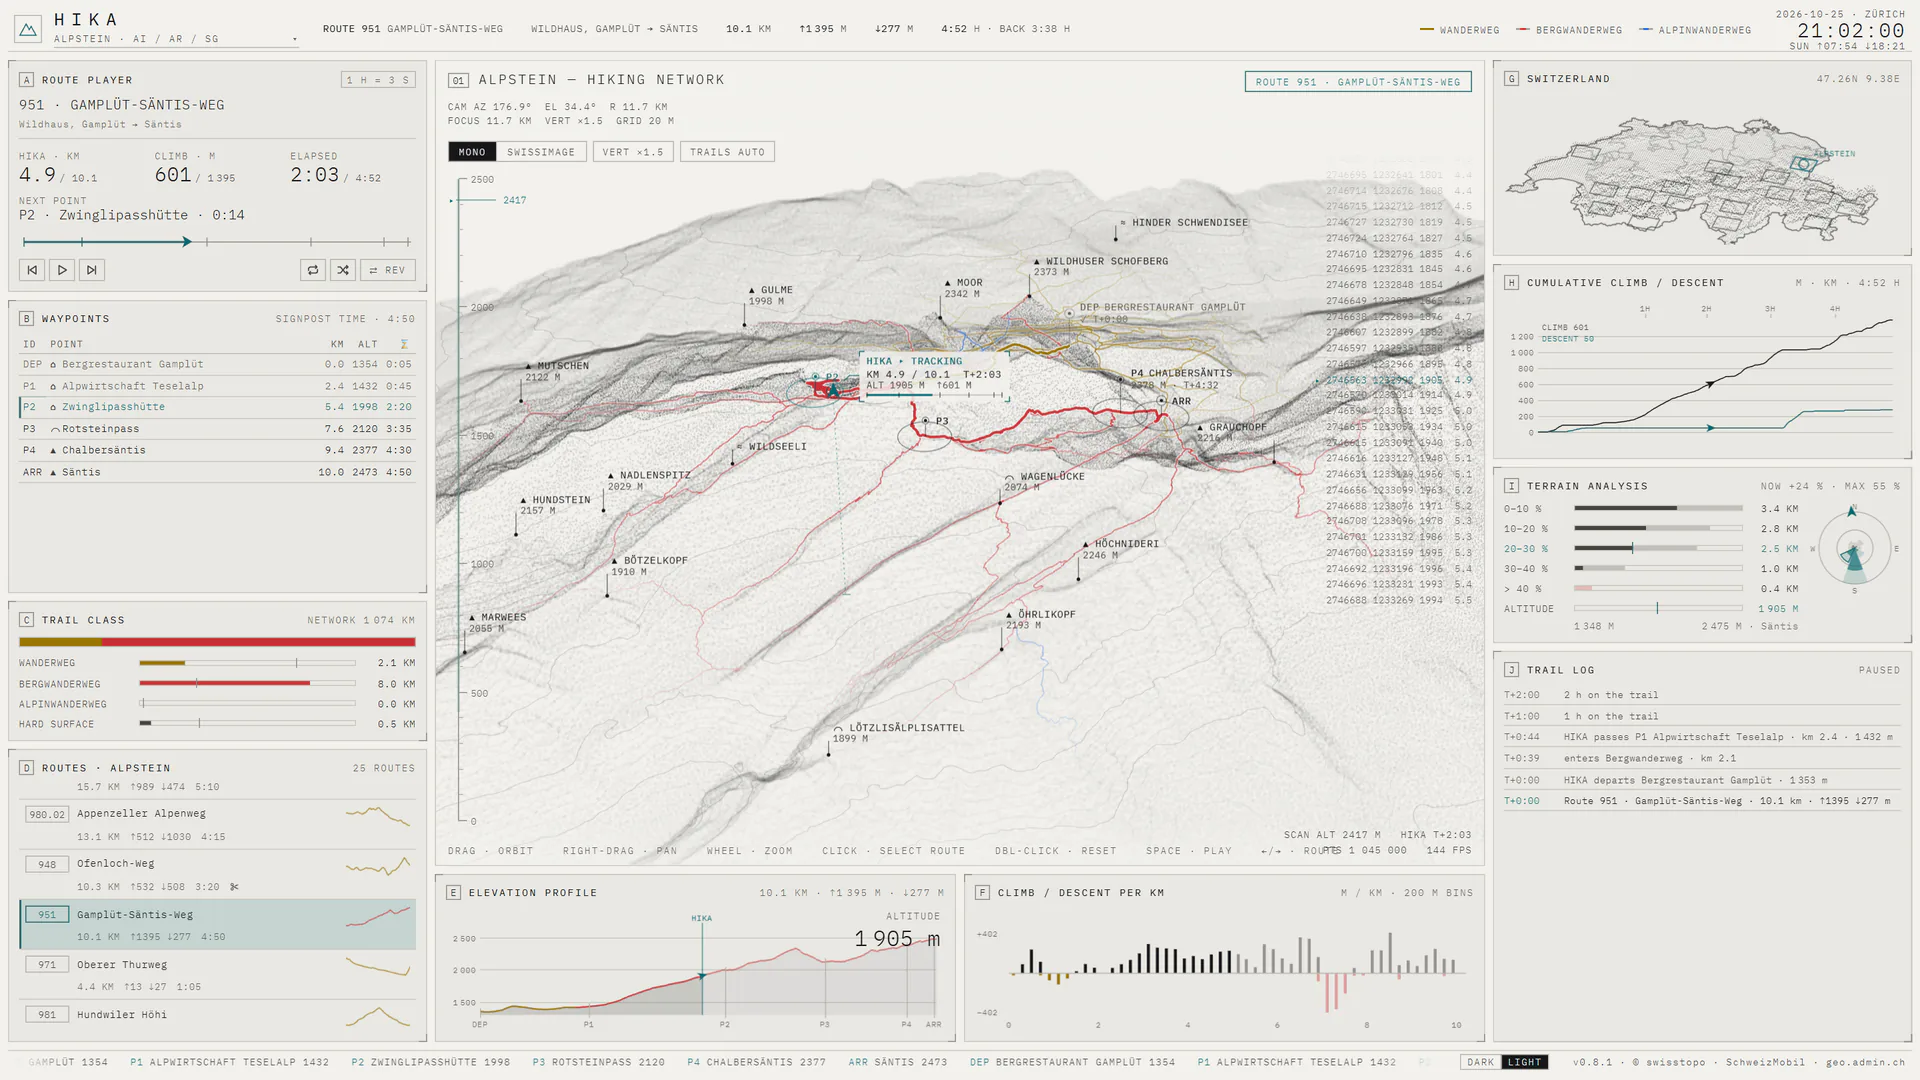
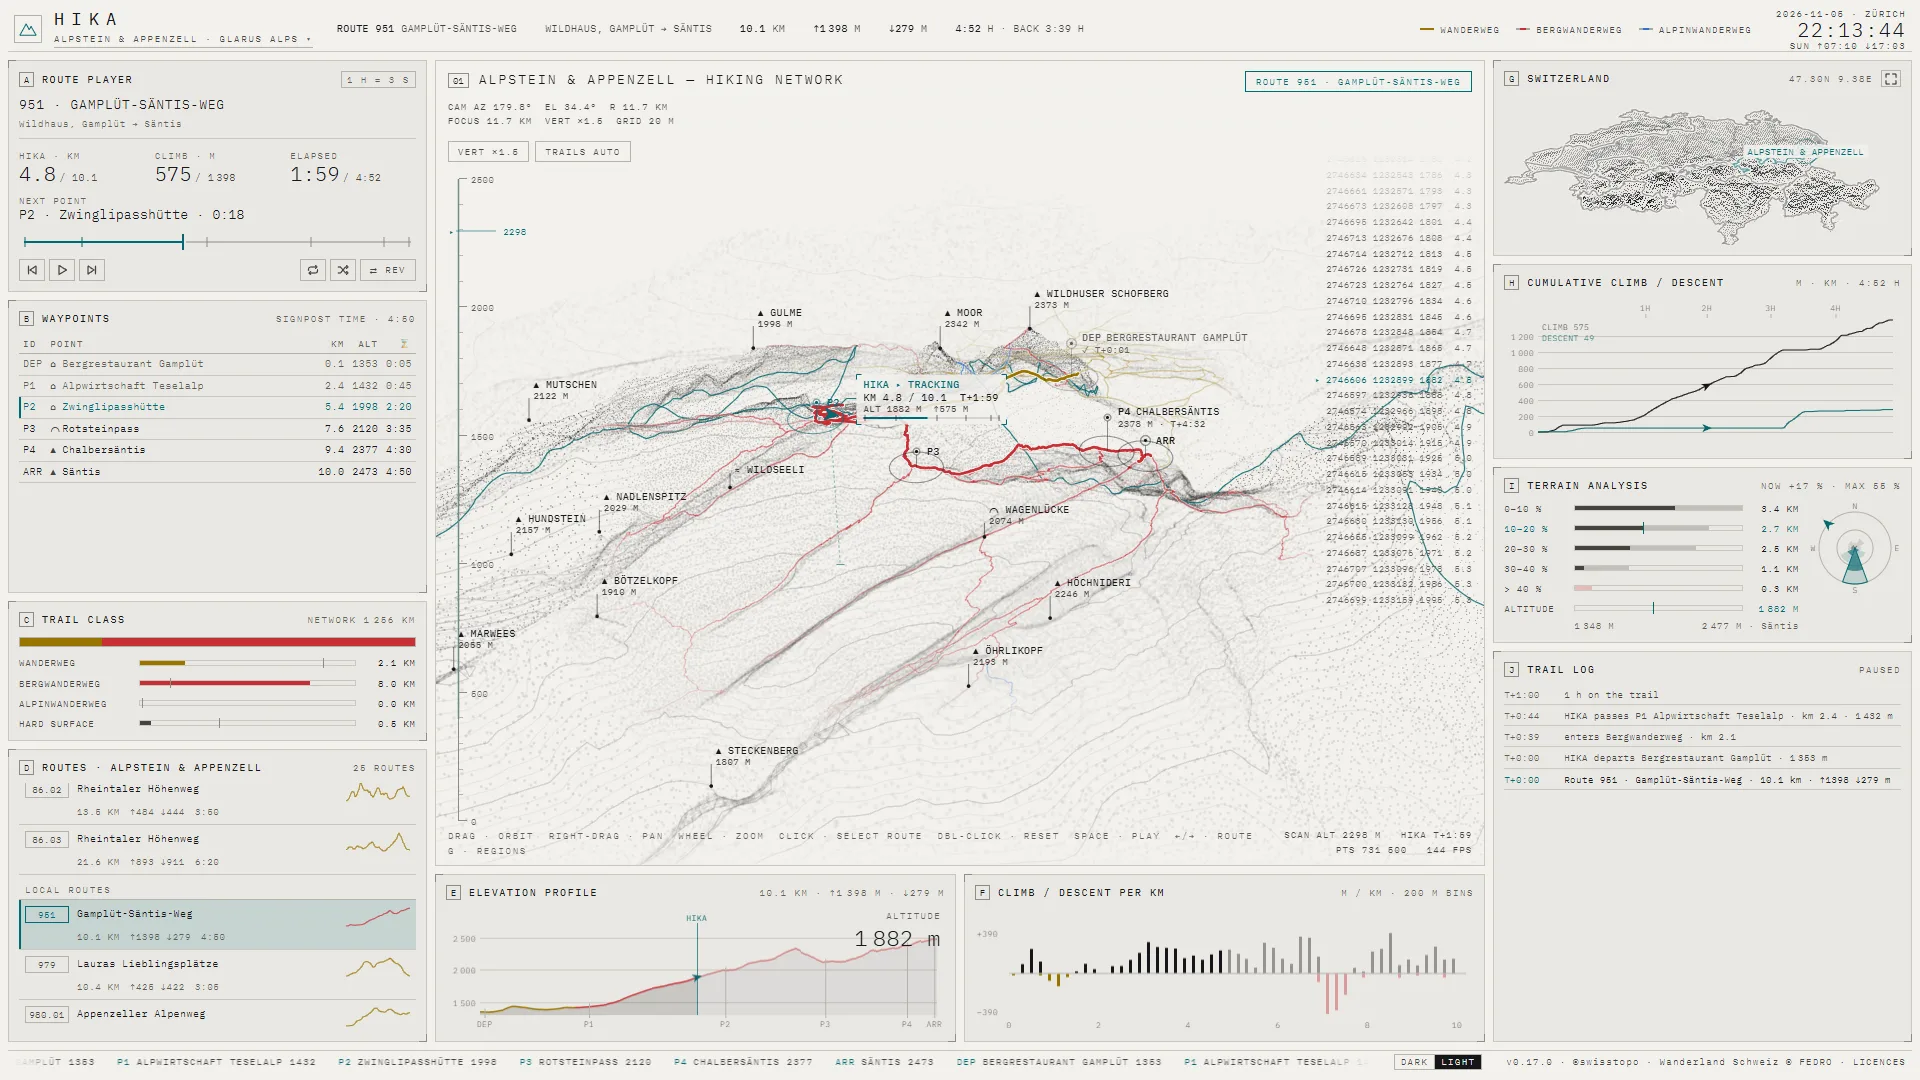
Clean up the repo and refresh the README
The README screenshots still showed v0.8.1, with a SWISSIMAGE button
removed in 0.13 and the rectangular regions of format 3. No change to
what the app does.

- Retake the hero and light screenshots from a v0.17.0 build, and add
  the region browser and a phone view.
- Restructure the README: the 54 area links become a collapsible table
  by range, the controls get mouse and touch columns, and there is a
  command table and a short "How it works".
- Remove the unused clipRoute, drop export from values only used in
  their own module, and rename RequestInit2 to FetchOptions.
- Fix stale names in comments and docs/data-coverage.md: "format 3",
  terrain.bin, trails.bin, trails.km.
- Add .editorconfig. In .gitattributes, mark .webp as binary in place of
  file types the repo no longer holds, and mark package-lock.json as
  generated.

diff --git a/src/data/codec.ts b/src/data/codec.ts
@@ -1,6 +1,6 @@
 /**
- * Byte layouts of the atlas files (format 3): terrain and trail tiles and route files. Shared by
- * the pipeline (encode) and the app (decode) so the two cannot drift apart.
+ * Byte layouts of the atlas files: terrain and trail tiles and route files. Shared by the pipeline
+ * (encode) and the app (decode) so the two cannot drift apart.
  *
  * All of them store 16-bit values as residuals from a predictor, modulo 2^16, with all low bytes before
  * all high bytes. The residuals are small and the high-byte plane is nearly constant, so git's
@@ -30,7 +30,7 @@ function predict(h: Uint16Array, i: number, cols: number): number {
   return h[i - 1] + h[i - cols] - h[i - cols - 1];
 }
 
-/** terrain.bin from a row-major Uint16 grid. */
+/** A terrain tile (`terrain/<key>.bin`) from a row-major Uint16 grid. */
 export function encodeGrid(h: Uint16Array, cols: number): Uint8Array {
   const r = new Uint16Array(h.length);
   for (let i = 0; i < h.length; i++) r[i] = (h[i] - predict(h, i, cols)) & 0xffff;
@@ -45,9 +45,9 @@ export function decodeGrid(bytes: Uint8Array, cols: number, rows: number): Uint1
 }
 
 /**
- * trails.bin: 'HKT2', line and vertex counts (Uint32), vertex offsets per line (Uint32), class and
- * surface bytes padded to 4, then the (e, n) pairs as deltas from the line's previous vertex (the
- * first vertex as is), in byte planes.
+ * A trail tile (`trails/<key>.bin`): 'HKT2', line and vertex counts (Uint32), vertex offsets per
+ * line (Uint32), class and surface bytes padded to 4, then the (e, n) pairs as deltas from the
+ * line's previous vertex (the first vertex as is), in byte planes.
  */
 export function encodeTrails({ offsets, cls, hard, xy }: Trails): Uint8Array {
   const nLines = cls.length, nVerts = xy.length / 2, meta = Math.ceil((nLines * 2) / 4) * 4;

diff --git a/scripts/lib/http.ts b/scripts/lib/http.ts
@@ -28,10 +28,10 @@ export async function withSlot<T>(fn: () => Promise<T>): Promise<T> {
   }
 }
 
-export interface RequestInit2 { method?: string; body?: string; headers?: Record<string, string> }
+interface FetchOptions { method?: string; body?: string; headers?: Record<string, string> }
 
 /** Fetches `url` through an on-disk cache keyed by URL and body, retrying transient failures. */
-export async function fetchCached(url: string, init: RequestInit2 = {}): Promise<Buffer> {
+export async function fetchCached(url: string, init: FetchOptions = {}): Promise<Buffer> {
   const key = createHash('sha1').update(url).update(init.body ?? '').digest('hex');
   const file = join(CACHE_DIR, key.slice(0, 2), key);
   if (existsSync(file)) return readFileSync(file);
@@ -41,7 +41,7 @@ export async function fetchCached(url: string, init: RequestInit2 = {}): Promise
   return buf;
 }
 
-export async function fetchJson<T>(url: string, init?: RequestInit2): Promise<T> {
+export async function fetchJson<T>(url: string, init?: FetchOptions): Promise<T> {
   return JSON.parse((await fetchCached(url, init)).toString('utf8')) as T;
 }
 
@@ -53,7 +53,7 @@ async function pace(url: string) {
   if (at > now) await new Promise((r) => setTimeout(r, at - now));
 }
 
-async function fetchRetry(url: string, init: RequestInit2, attempt = 0): Promise<Buffer> {
+async function fetchRetry(url: string, init: FetchOptions, attempt = 0): Promise<Buffer> {
   await pace(url);
   try {
     const res = await fetch(url, init);

diff --git a/scripts/lib/wanderland.ts b/scripts/lib/wanderland.ts
@@ -1,6 +1,6 @@
 import { DatabaseSync } from 'node:sqlite';
-import type { BBox, RouteCategory } from '../../src/data/types';
-import { clipToBox, polylineLength, type XY } from '../../src/geo/track';
+import type { RouteCategory } from '../../src/data/types';
+import { polylineLength, type XY } from '../../src/geo/track';
 import { downloadFile } from './download';
 import { parseGpkgLines } from './gpkg';
 import { latestItem } from './stac';
@@ -117,18 +117,4 @@ export function chain(parts: XY[][]): { line: XY[]; gaps: number; dropped: numbe
   }
   const lengths = pieces.map(polylineLength), longest = lengths.indexOf(Math.max(...lengths));
   return { line: pieces[longest], gaps, dropped: lengths.reduce((s, l) => s + l, 0) - lengths[longest] };
-}
-
-/** The longest piece of `line` inside `bbox`, with flags for whether it was cut at either end. */
-export function clipRoute(line: XY[], bbox: BBox): { piece: XY[]; clipped: [boolean, boolean]; insideShare: number } {
-  const pieces = clipToBox(line, bbox);
-  if (!pieces.length) return { piece: [], clipped: [true, true], insideShare: 0 };
-  const lens = pieces.map(polylineLength);
-  const piece = pieces[lens.indexOf(Math.max(...lens))];
-  const same = (a: XY, b: XY) => Math.hypot(a[0] - b[0], a[1] - b[1]) < 1;
-  return {
-    piece,
-    clipped: [!same(piece[0], line[0]), !same(piece[piece.length - 1], line[line.length - 1])],
-    insideShare: lens.reduce((s, l) => s + l, 0) / polylineLength(line),
-  };
 }

diff --git a/src/gl/edge.ts b/src/gl/edge.ts
@@ -17,10 +17,10 @@ import { WINDOW_MARGIN } from '../data/tiles';
 /** Radius (m) the window's corners are rounded to. */
 export const CORNER = 2000;
 /** Width (m) over which the terrain fades out. */
-export const FADE = 500;
+const FADE = 500;
 /** How far (m) noise and the relief move the outline in and out: ridges reach out, valleys recede. */
-export const FRAY = 500;
-export const RELIEF = 250;
+const FRAY = 500;
+const RELIEF = 250;
 /** Wavelength (m) of the noise's coarsest octave. */
 const GRAIN = 2600;
 /** Summed octaves of value noise keep near their mean; this stretches them over the whole of `FRAY`. */
@@ -61,7 +61,7 @@ float edgeMask(vec2 xz, float alt, vec2 size, vec2 altRange) {
 /** Cell (m) of the area's mask: its border is simplified to 150 m (`traceArcs`). */
 export const AREA_CELL = 100;
 /** How much of the terrain beyond the area's border is drawn: points, contours and trails thin out or dim to it. */
-export const OUTSIDE = 0.3;
+const OUTSIDE = 0.3;
 
 /**
  * GLSL for `areaKeep(xz)`: how much of the terrain to draw at world `xz`, 1 in the page's area and

diff --git a/src/data/tiles.ts b/src/data/tiles.ts
@@ -1,7 +1,7 @@
 /**
- * The atlas tile grid (format 3, see AGENTS.md): square LV95 tiles keyed by their south-west
- * corner in km (`2735_1225`). Shared by the pipeline, which writes tiles, and the app, which
- * stitches the tiles around a route into one window.
+ * The atlas tile grid (see AGENTS.md): square LV95 tiles keyed by their south-west corner in km
+ * (`2735_1225`). Shared by the pipeline, which writes tiles, and the app, which stitches the tiles
+ * around a route into one window.
  */
 import type { BBox } from './types';
 
@@ -22,7 +22,7 @@ export const WINDOW_MARGIN = 2000;
  * region alone, which keeps every window within check-atlas's budget. Regions don't sit on the
  * tile grid, so a cap on area would let a 27 × 27 km window take 7 × 7 tiles.
  */
-export const WINDOW_MAX_TILES = 36;
+const WINDOW_MAX_TILES = 36;
 
 /** Key of the tile whose south-west corner is (e, n). */
 export const tileKey = (e: number, n: number) => `${e / 1000}_${n / 1000}`;

diff --git a/scripts/lib/stac.ts b/scripts/lib/stac.ts
@@ -9,7 +9,7 @@ export interface StacItem { id: string; bbox: number[]; properties: { datetime: 
 interface StacPage { features: StacItem[]; links: { rel: string; href: string }[] }
 
 /** WGS84 bbox that encloses an LV95 bbox (the projection's grid is slightly rotated). */
-export function wgs84Bounds([minE, minN, maxE, maxN]: BBox): [number, number, number, number] {
+function wgs84Bounds([minE, minN, maxE, maxN]: BBox): [number, number, number, number] {
   const corners = [lv95ToWgs84(minE, minN), lv95ToWgs84(minE, maxN), lv95ToWgs84(maxE, minN), lv95ToWgs84(maxE, maxN)];
   const lons = corners.map((c) => c[0]), lats = corners.map((c) => c[1]);
   return [Math.min(...lons), Math.min(...lats), Math.max(...lons), Math.max(...lats)];

diff --git a/src/regions.ts b/src/regions.ts
@@ -18,7 +18,7 @@ export function rangeOf(ranges: RangeSummary[], region: Pick<RegionSummary, 'ran
 }
 
 /** Canton names by code, in their official languages and English, for the region filter. */
-export const CANTON_NAMES: Record<string, string> = {
+const CANTON_NAMES: Record<string, string> = {
   AG: 'Aargau Argovie', AI: 'Appenzell Innerrhoden', AR: 'Appenzell Ausserrhoden', BE: 'Bern Berne',
   BL: 'Basel-Landschaft Bâle-Campagne', BS: 'Basel-Stadt Bâle-Ville', FR: 'Fribourg Freiburg', GE: 'Genève Genf Geneva',
   GL: 'Glarus Glaris', GR: 'Graubünden Grisons Grigioni Grischun', JU: 'Jura', LU: 'Luzern Lucerne',

diff --git a/scripts/lib/partition.ts b/scripts/lib/partition.ts
@@ -17,7 +17,7 @@ export interface Raster { bbox: BBox; cell: number; cols: number; rows: number }
 export const raster = (bbox: BBox, cell: number): Raster => ({ bbox, cell, cols: Math.round((bbox[2] - bbox[0]) / cell), rows: Math.round((bbox[3] - bbox[1]) / cell) });
 
 /** Crossing a lake costs this many times walking the same distance on the flat shore: borders run through lakes, not along their shores. */
-export const LAKE_FACTOR = 4;
+const LAKE_FACTOR = 4;
 /** Pieces of an area smaller than this many km² go to the neighbour they share the most border with. */
 export const MIN_PIECE_KM2 = 2;
 

diff --git a/src/geo/track.ts b/src/geo/track.ts
@@ -47,7 +47,7 @@ export function climb(alt: ArrayLike<number>, threshold = 3): { up: number; down
 }
 
 /** Cumulative ascent / descent per sample (same hysteresis as `climb`). */
-export function cumulativeClimb(alt: ArrayLike<number>, threshold = 3): { up: Float64Array; down: Float64Array } {
+function cumulativeClimb(alt: ArrayLike<number>, threshold = 3): { up: Float64Array; down: Float64Array } {
   const up = new Float64Array(alt.length), down = new Float64Array(alt.length);
   let ref = alt[0];
   for (let i = 1; i < alt.length; i++) {

diff --git a/src/ui/chrome.ts b/src/ui/chrome.ts
@@ -68,7 +68,7 @@ export function startClock(region: Region) {
 }
 
 /** NOAA sunrise equation (±1 min), good enough for a status line. */
-export function sunTimes(day: Date, lat: number, lon: number): { rise: Date | null; set: Date | null } {
+function sunTimes(day: Date, lat: number, lon: number): { rise: Date | null; set: Date | null } {
   const rad = Math.PI / 180;
   const n = Math.floor(Date.UTC(day.getUTCFullYear(), day.getUTCMonth(), day.getUTCDate()) / 86400000 - 10957.5) + 0.0008;
   const jStar = n - lon / 360;

diff --git a/src/data/load.ts b/src/data/load.ts
@@ -222,7 +222,7 @@ async function fetchOk(rel: string): Promise<Response> {
 const json = async <T>(rel: string) => (await (await fetchOk(rel)).json()) as T;
 const binary = async (rel: string) => (await fetchOk(rel)).arrayBuffer();
 
-export function deriveRoute(r: Route): RouteView {
+function deriveRoute(r: Route): RouteView {
   const km = Float64Array.from(r.alt, (_, i) => (i * r.step) / 1000);
   const { up, down } = routeClimb(r.alt);
   return { ...r, km, minutes: cumulativeMinutes(r.alt, r.step), up, down };

diff --git a/scripts/lib/areas.ts b/scripts/lib/areas.ts
@@ -17,7 +17,7 @@ import { encodeU16, nationalDem, type Grid } from './terrain';
 /** Cell of the partition raster (m). */
 export const AREA_CELL = 200;
 /** Area borders are simplified to this (m); diagonal steps of the 200 m raster are under it, so they straighten. */
-export const ARC_TOLERANCE = 150;
+const ARC_TOLERANCE = 150;
 /** A place or point seeds a disc this wide (m) unless it says otherwise. */
 const SEED_RADIUS = 1500;
 /** Flat groups of fewer 200 m cells than this (1 km²) are plains, not lakes. */
